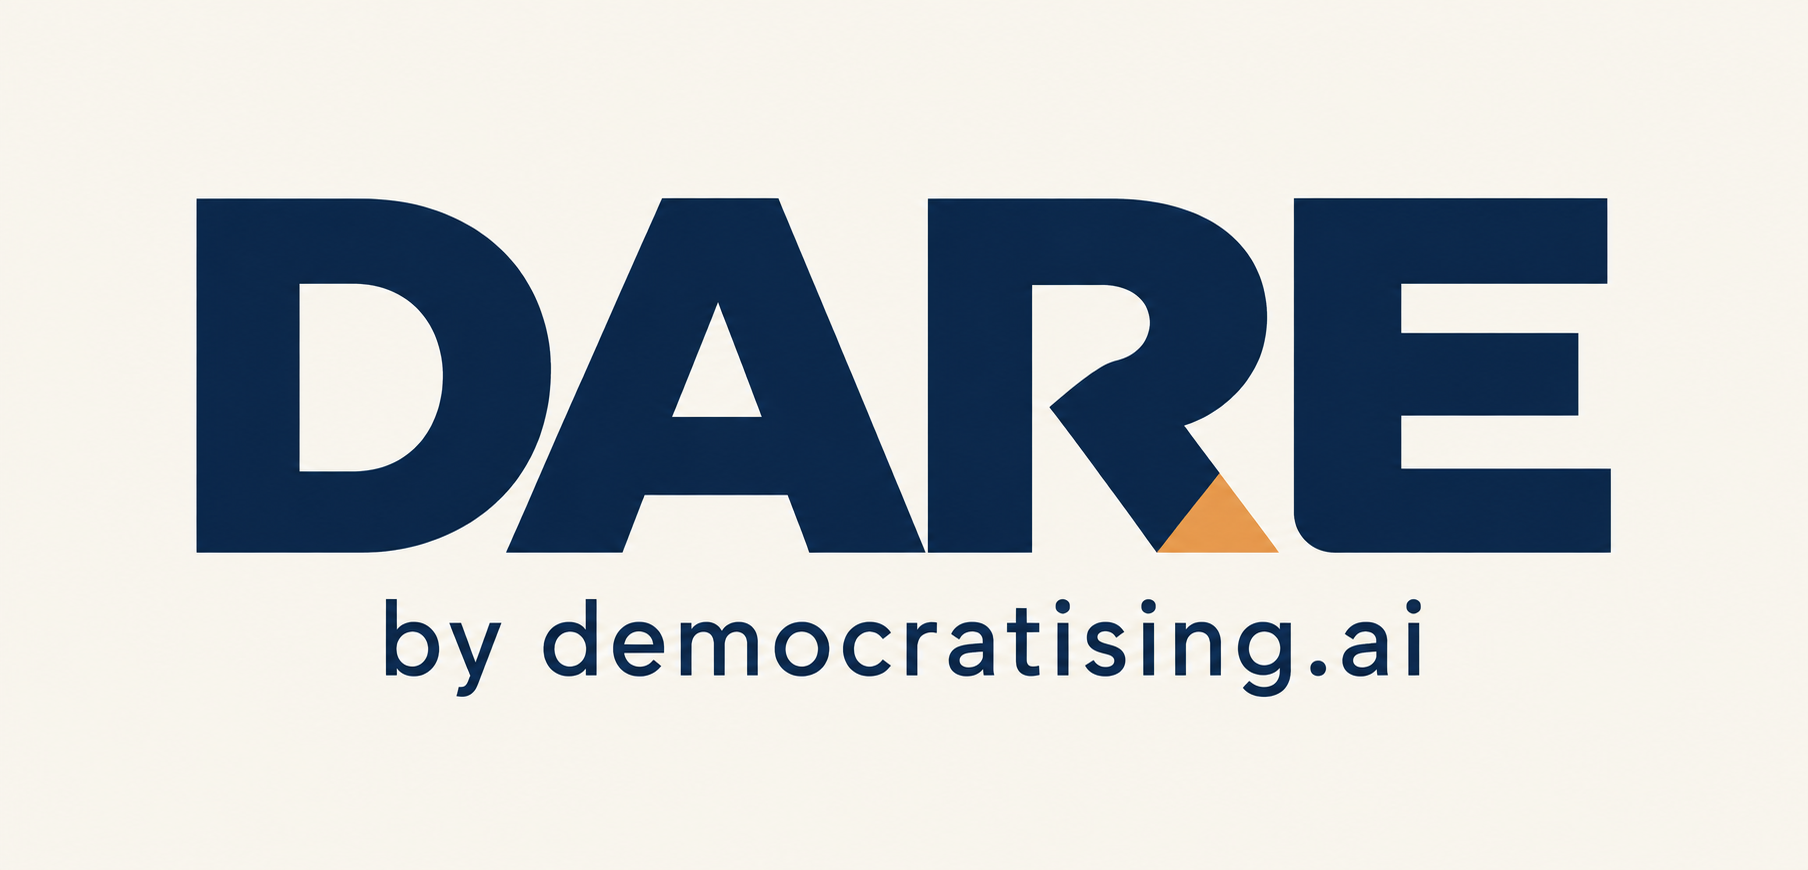
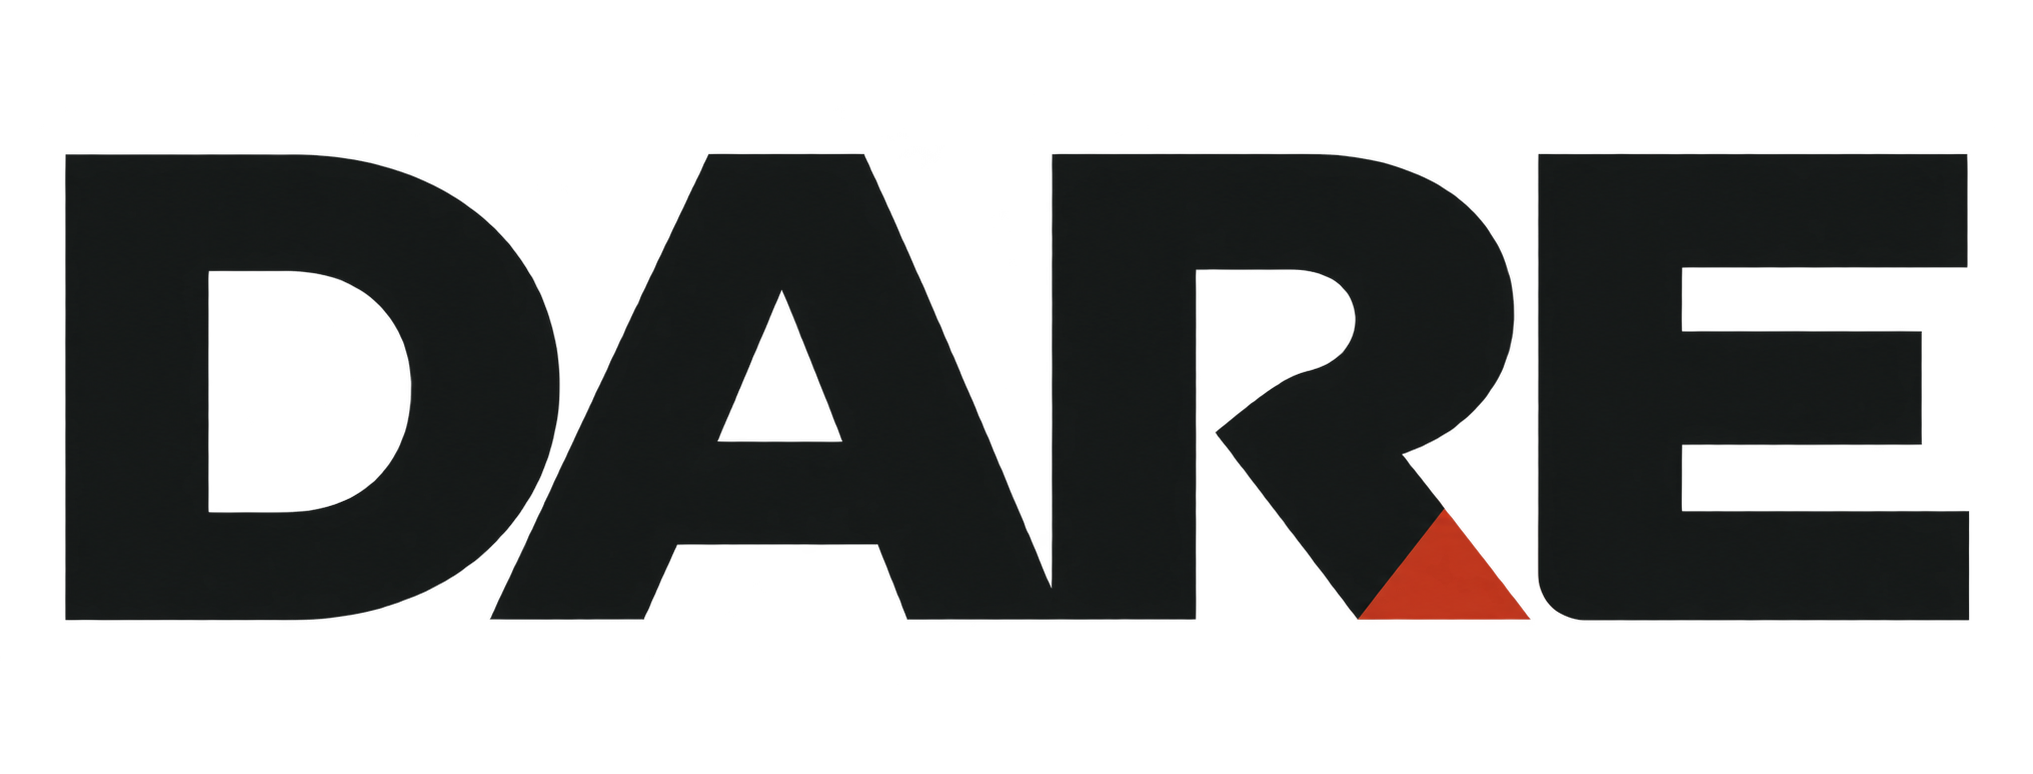
Use refined DARE identity across homepage and tools

diff --git a/src/components/tools/BeforeYouSend.tsx b/src/components/tools/BeforeYouSend.tsx
@@ -33,5 +33,5 @@ export default function BeforeYouSend(){
  {!busy&&!complete&&<button className="bys-primary" onClick={()=>void run('analysis')}>Retry review</button>}
  {complete&&!suggestion&&<div className="bys-actions"><button className="bys-primary" disabled={!!busy} onClick={()=>void run('rewrite')}>Create suggested version →</button></div>}
  {original&&<><div className="bys-toolbar bys-comparetools"><p className="bys-hint">Your original stays unchanged. Edit the suggestion before you use it.</p>{suggestion&&<button className="bys-secondary" aria-pressed={highlight} onClick={()=>setHighlight(!highlight)}>{highlight?'Hide':'Highlight'} changes</button>}</div><div className="bys-comparison"><section><h3>Original</h3><p className="bys-hint">Your starting point</p><div className="bys-original">{original.message}</div></section><section><h3>Suggested version</h3><label className="bys-hint" htmlFor="suggestion">Edit before you copy or download</label><textarea id="suggestion" rows={12} value={suggestion} disabled={!suggestion&&!complete||!!busy} onChange={e=>{setSuggestion(e.target.value);setNotice('')}} placeholder={complete?'Create a suggested version after reviewing the observations.':'Your suggestion will appear here.'}/><div className="bys-print-suggestion">{suggestion}</div></section></div>{highlight&&(changes?<div className="bys-comparison bys-diff"><section><h3>Removed wording</h3><div>{changes.left.map((v,i)=>v.changed?<del key={i}>{v.text}</del>:<span key={i}>{v.text}</span>)}</div></section><section><h3>Added wording</h3><div>{changes.right.map((v,i)=>v.changed?<ins key={i}>{v.text}</ins>:<span key={i}>{v.text}</span>)}</div></section></div>:<p className="bys-hint">This message is too long for word highlighting. Compare the versions above.</p>)}{rationale.length>0&&<section className="bys-rationale"><h3>What changed and why</h3><ul>{rationale.map((r,i)=><li key={i}>{r}</li>)}</ul><p className="bys-hint">Describes the generated suggestion, not any subsequent edits you make.</p></section>}{suggestion&&<div className="bys-actions"><button className="bys-primary" data-edge-event="edge_copy_requested" onClick={()=>void copy()}>Copy suggested version</button><button className="bys-secondary" data-edge-event="edge_export_requested" onClick={download}>Download text</button><button className="bys-secondary" data-edge-event="edge_export_requested" onClick={()=>window.print()}>Print / save PDF</button></div>}</>}
- </section>}{error&&<div role="alert" className="bys-error">{error}{complete&&!busy&&<button className="bys-secondary" onClick={()=>void run('rewrite')}>Retry suggestion</button>}</div>}<p role="status" className="bys-status">{notice}</p></div><aside className="bys-side"><details open={phase==='draft'}><summary>Guidance and EDGE context</summary><h2>Your message.<br/>Your judgement.</h2><ul><li>Start with one audience. Add others when their perspectives matter.</li><li>Look for the few changes that would make a difference.</li><li>Keep facts, commitments and uncertainty intact.</li></ul><details><summary>How this fits EDGE</summary><p>Evaluate how your message could land. Define what you want to communicate, check responsibilities, then apply what you have learned.</p><a href="https://adrianwatkins.com/edge" target="_blank" rel="noopener noreferrer">Explore the EDGE framework ↗</a></details><img src="/brand/dare.png" width="135" alt="DARE by democratising.ai"/></details><details><summary>Before you share a message</summary><p>Your message, intent and audience notes are sent to our server and OpenAI to generate the review. Use general descriptions and avoid confidential or sensitive information.</p><p>Draft saving is optional and uses this browser's local storage. Saved drafts expire after seven days without an edit and are removed when you next open the tool. Use Clear draft to remove them immediately. Results are not saved by this tool.</p></details></aside></div>;
+ </section>}{error&&<div role="alert" className="bys-error">{error}{complete&&!busy&&<button className="bys-secondary" onClick={()=>void run('rewrite')}>Retry suggestion</button>}</div>}<p role="status" className="bys-status">{notice}</p></div><aside className="bys-side"><details open={phase==='draft'}><summary>Guidance and EDGE context</summary><h2>Your message.<br/>Your judgement.</h2><ul><li>Start with one audience. Add others when their perspectives matter.</li><li>Look for the few changes that would make a difference.</li><li>Keep facts, commitments and uncertainty intact.</li></ul><details><summary>How this fits EDGE</summary><p>Evaluate how your message could land. Define what you want to communicate, check responsibilities, then apply what you have learned.</p><a href="https://adrianwatkins.com/edge" target="_blank" rel="noopener noreferrer">Explore the EDGE framework ↗</a></details><img src="/brand/dare-refined-20261031.png" width="135" alt="DARE by democratising.ai"/></details><details><summary>Before you share a message</summary><p>Your message, intent and audience notes are sent to our server and OpenAI to generate the review. Use general descriptions and avoid confidential or sensitive information.</p><p>Draft saving is optional and uses this browser's local storage. Saved drafts expire after seven days without an edit and are removed when you next open the tool. Use Clear draft to remove them immediately. Results are not saved by this tool.</p></details></aside></div>;
 }
